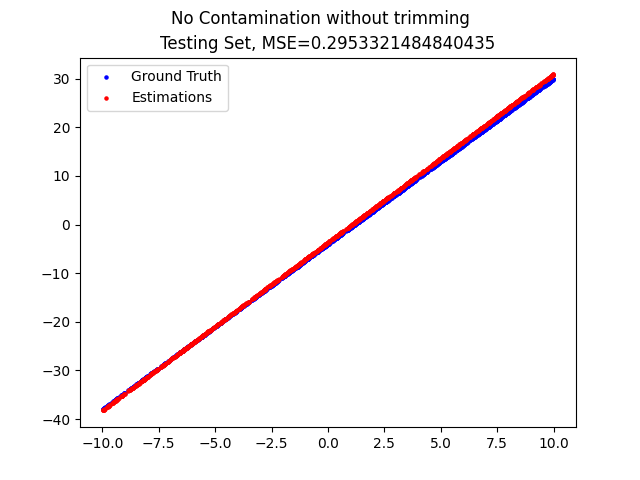
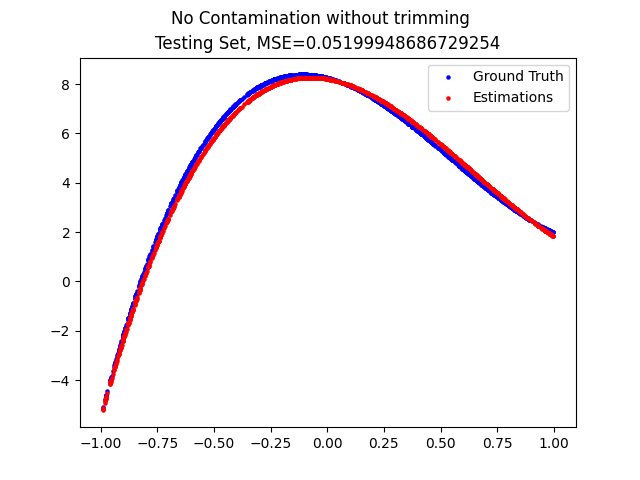
expand tests to higher dimensions (powers) (polynomial regression)

diff --git a/main.py b/main.py
@@ -67,16 +67,27 @@ def mini_batch_gradient_descent(
             indices = rng.choice(sample_size, batch_size, False)
             loss, gradient = trimmed_squared_loss_and_gradient(
                 X[indices], w, y[indices], epsilon)
-        if abs(loss - prev_loss) / prev_loss < 1e-3:
+        if abs(loss - prev_loss) / prev_loss < 1e-5:
             return w
         prev_loss = loss
     return w
 
 
+def power_expand(_X: np.ndarray, power: int) -> np.ndarray:
+    # | x0 |    | x0 x0^2 ... |
+    # | x1 | => | x1 x1^2 ... |
+    # | .. |    | .. .... ... |
+    X = np.empty((_X.shape[0], power))
+    X[:, 0] = _X
+    for i in range(1, power):
+        X[:, i] = _X ** (i + 1)
+    return X
+
 def generate_X_and_y_with_w(w: np.ndarray, x_low: float, x_high: float, size: int, noise_level: float) -> Tuple[np.ndarray, np.ndarray]:
     # return X and y, respectively
     rng = np.random.default_rng()
-    X = rng.uniform(x_low, x_high, (size, w.shape[0] - 1))
+    dimension = w.shape[0] - 1
+    X = power_expand(rng.uniform(x_low, x_high, size), dimension)
     y = np.c_[np.ones(size), X].dot(w)
     y += rng.normal(0, stdev(y) * noise_level, size)
     return X, y
@@ -174,20 +185,24 @@ def test_model(
     plt.savefig(join("test_result_img", f"{title} Testing without trimming"))
 
 
-def test_no_noise_no_contamination():
+def test_no_noise_no_contamination(
+    power: int,
+    epsilon: float,
+    batch_size: int,
+    learning_rate: float,
+    max_iter: int
+):
     w_low = -10
     w_high = 10
-    x_low = -10
-    x_high = 10
-    noise_level = 0
+    x_low = -1
+    x_high = 1
     training_size = 1000
     testing_size = 1000
-    epsilon = 0
 
     rng = np.random.default_rng()
-    w = rng.uniform(w_low, w_high, 2)
+    w = rng.uniform(w_low, w_high, power + 1)
     X_training, y_training = generate_X_and_y_with_w(
-        w, x_low, x_high, training_size, noise_level)
+        w, x_low, x_high, training_size, 0)
     X_testing, y_testing = generate_X_and_y_with_w(
         w, x_low, x_high, testing_size, 0)
     test_model(
@@ -197,25 +212,30 @@ def test_no_noise_no_contamination():
         X_testing,
         y_testing,
         epsilon,
-        100,
-        0.01,
-        1000,
+        batch_size,
+        learning_rate,
+        max_iter,
         "No Noise No Contamination"
     )
 
 
-def test_no_contamination():
+def test_no_contamination(
+    power: int,
+    noise_level: float,
+    epsilon: float,
+    batch_size: int,
+    learning_rate: float,
+    max_iter: int
+):
     w_low = -10
     w_high = 10
-    x_low = -10
-    x_high = 10
-    noise_level = 0.5
+    x_low = -1
+    x_high = 1
     training_size = 1000
     testing_size = 1000
-    epsilon = 0
 
     rng = np.random.default_rng()
-    w = rng.uniform(w_low, w_high, 2)
+    w = rng.uniform(w_low, w_high, power + 1)
     X_training, y_training = generate_X_and_y_with_w(
         w, x_low, x_high, training_size, noise_level)
     X_testing, y_testing = generate_X_and_y_with_w(
@@ -227,37 +247,38 @@ def test_no_contamination():
         X_testing,
         y_testing,
         epsilon,
-        100,
-        0.01,
-        1000,
+        batch_size,
+        learning_rate,
+        max_iter,
         "No Contamination"
     )
 
 
-def test_random_contamination():
+def test_random_contamination(
+    power: int,
+    noise_level: float,
+    epsilon: float,
+    batch_size: int,
+    learning_rate: float,
+    max_iter: int
+):
     w_low = -10
     w_high = 10
-    x_low = -10
-    x_high = 10
-    noise_level = 0.5
+    x_low = -1
+    x_high = 1
     training_size = 1000
     testing_size = 1000
-    epsilon = 0.5
 
     rng = np.random.default_rng()
-    w = rng.uniform(w_low, w_high, 2)
-    X_training, y_training = generate_X_and_y_with_w(
-        w, x_low, x_high, training_size, noise_level)
+    w = rng.uniform(w_low, w_high, power + 1)
+    X_training, y_training = generate_X_and_y_with_w(w, x_low, x_high, training_size, noise_level)
     contamination_size = int(training_size * epsilon)
     contaminated_indices = rng.choice(training_size, contamination_size, False)
-    X_contamination = rng.uniform(
-        X_training.min(), X_training.max(), (contamination_size, 1))
-    Y_contamination = rng.uniform(
-        y_training.min(), y_training.max(), contamination_size)
+    X_contamination = power_expand(rng.uniform(X_training[:, 0].min(), X_training[:, 0].max(), contamination_size), power)
+    Y_contamination = rng.uniform(y_training.min(), y_training.max(), contamination_size)
     X_training[contaminated_indices] = X_contamination
     y_training[contaminated_indices] = Y_contamination
-    X_testing, y_testing = generate_X_and_y_with_w(
-        w, x_low, x_high, testing_size, 0)
+    X_testing, y_testing = generate_X_and_y_with_w(w, x_low, x_high, testing_size, 0)
     test_model(
         X_training,
         y_training,
@@ -265,14 +286,34 @@ def test_random_contamination():
         X_testing,
         y_testing,
         epsilon,
-        100,
-        0.01,
-        1000,
+        batch_size,
+        learning_rate,
+        max_iter,
         "Random Contamination"
     )
 
 
 if __name__ == "__main__":
-    test_no_noise_no_contamination()
-    test_no_contamination()
-    test_random_contamination()
+    test_no_noise_no_contamination(
+        3, # power
+        0.1, # epsilon
+        100, # batch size
+        0.01, # learning rate
+        10000 # max iter
+    )
+    test_no_contamination(
+        3, # power
+        1, # noise level
+        0.1, # epsilon
+        100, # batch size
+        0.01, # learning rate
+        10000 # max iter
+    )
+    test_random_contamination(
+        3, # power
+        1, # noise level
+        0.5, # epsilon
+        100, # batch size
+        0.01, # learning rate
+        10000 # max iter
+    )

diff --git a/README.md b/README.md
@@ -4,9 +4,9 @@
 
 This is for the final project of COMP_SCI 496: Foundations of Reliability and Robustness in Machine Learning at Northwestern University.
 
-Mini Batch Gradient Descent (MBGD) is a simple yet effective machine learning model as a linear regressor. However, the naïve MBGD model with squared losses is very sensitive to outliers, making it vulnerable to adversary samples.
+Mini Batch Gradient Descent (MBGD) is a simple yet effective machine learning model as a linear (and polynomial) regressor. However, the naïve MBGD model with squared losses is very sensitive to outliers, making it vulnerable to adversary samples.
 
-Our group is proposing to add loss and gradient trimming to the fitting procedure to make the MBGD model more robust. We will measure the robustness of the modified model under the epsilon-contamination model by calculating the mean squared error (MSE) on the training sets.
+Our group is proposing to add a trimming procedure based on the losses when calculating the gradients to make the MBGD model more robust. We will measure the robustness of the modified model under the ε-contamination model by calculating the mean squared error (MSE) on the training sets.
 
 We will test with random adversaries, adversaries attempting to affect the slopes, and adversaries attempting to affect the bias.
 
@@ -37,3 +37,13 @@ python3 main.py
 | No noise, no contamination | ![](test_result_img/No%20Noise%20No%20Contamination%20Training%20with%20trimming.png) | ![](test_result_img/No%20Noise%20No%20Contamination%20Testing%20with%20trimming.png) | ![](test_result_img/No%20Noise%20No%20Contamination%20Training%20without%20trimming.png) | ![](test_result_img/No%20Noise%20No%20Contamination%20Testing%20without%20trimming.png) |
 | No contamination | ![](test_result_img/No%20Contamination%20Training%20with%20trimming.png) | ![](test_result_img/No%20Contamination%20Testing%20with%20trimming.png) | ![](test_result_img/No%20Contamination%20Training%20without%20trimming.png) | ![](test_result_img/No%20Contamination%20Testing%20without%20trimming.png) |
 | Random contamination | ![](test_result_img/Random%20Contamination%20Training%20with%20trimming.png) | ![](test_result_img/Random%20Contamination%20Testing%20with%20trimming.png) | ![](test_result_img/Random%20Contamination%20Training%20without%20trimming.png) | ![](test_result_img/Random%20Contamination%20Testing%20without%20trimming.png) |
+
+## TODO
+
+- Test with more epsilons on training data without contamination.
+
+- Test with more epsilons on training data with contamination having x and y following uniform distributions within their ranges in the authentic data.
+
+- Test with more epsilons on training data with adversary contaminations attempting to affect specific weights.
+
+- Verify the model with higher dimensions (powers).
